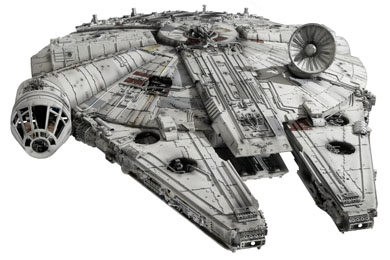
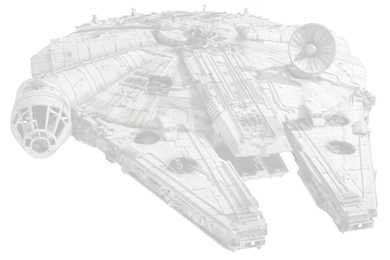
revised millenium falcon img

diff --git a/templates/layout.html b/templates/layout.html
@@ -5,7 +5,7 @@ $def with (content)
 		<link rel="stylesheet" type="text/css" href="/static/style1.css"/>
 	</head>
 	<body>
-	<img src="/static/falcon.jpg" alt="millenium falcon" width="390" height="260">
+	
 		$:content
 
 	</body>

diff --git a/static/style1.css b/static/style1.css
@@ -1,4 +1,4 @@
 body {
-	
-
+background-image: url("/static/falcon.jpg");
+background-repeat: no-repeat;
 }
